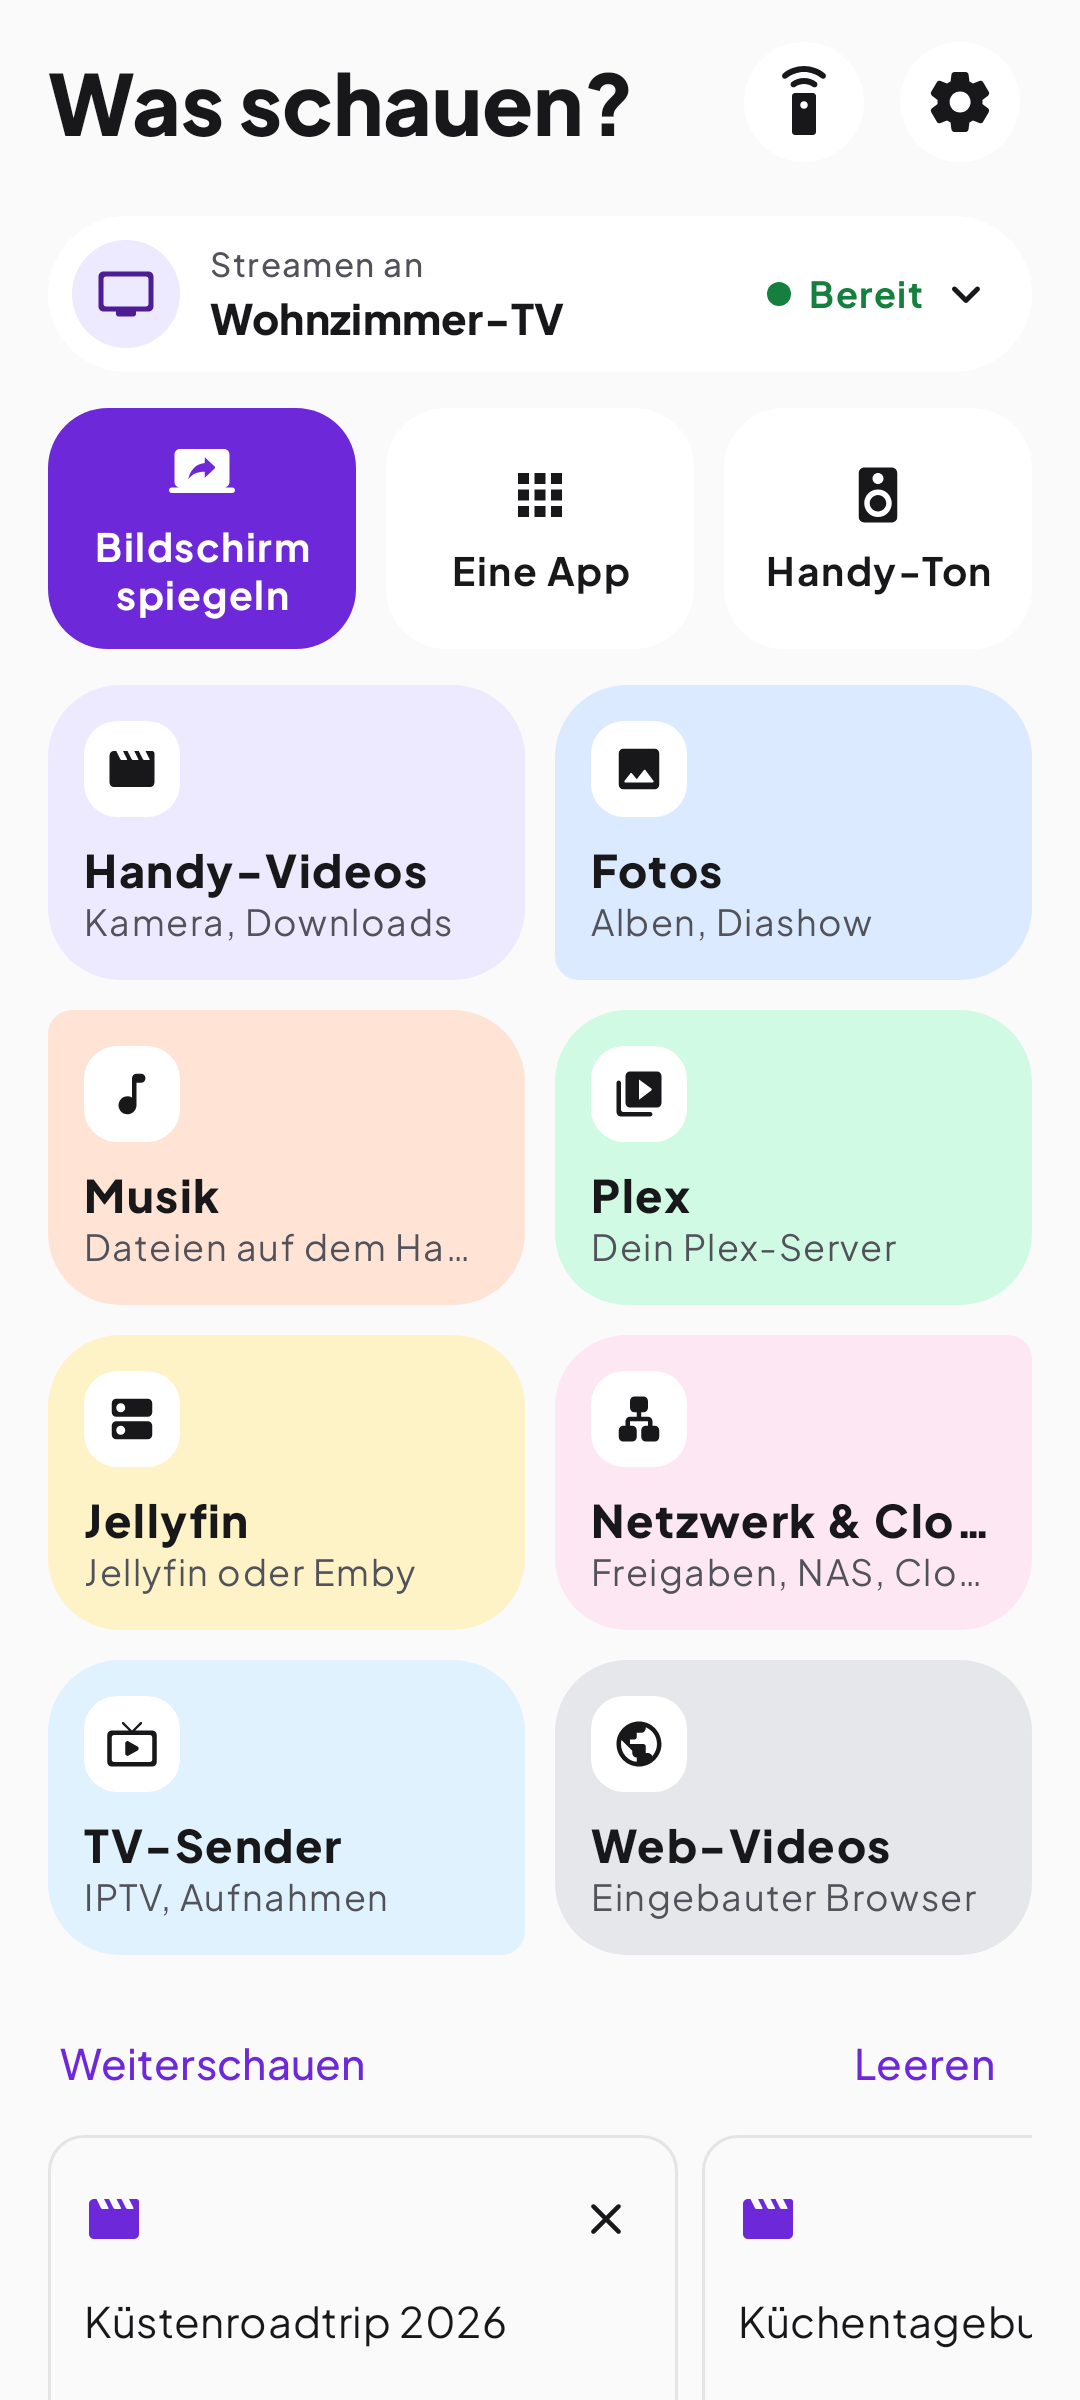
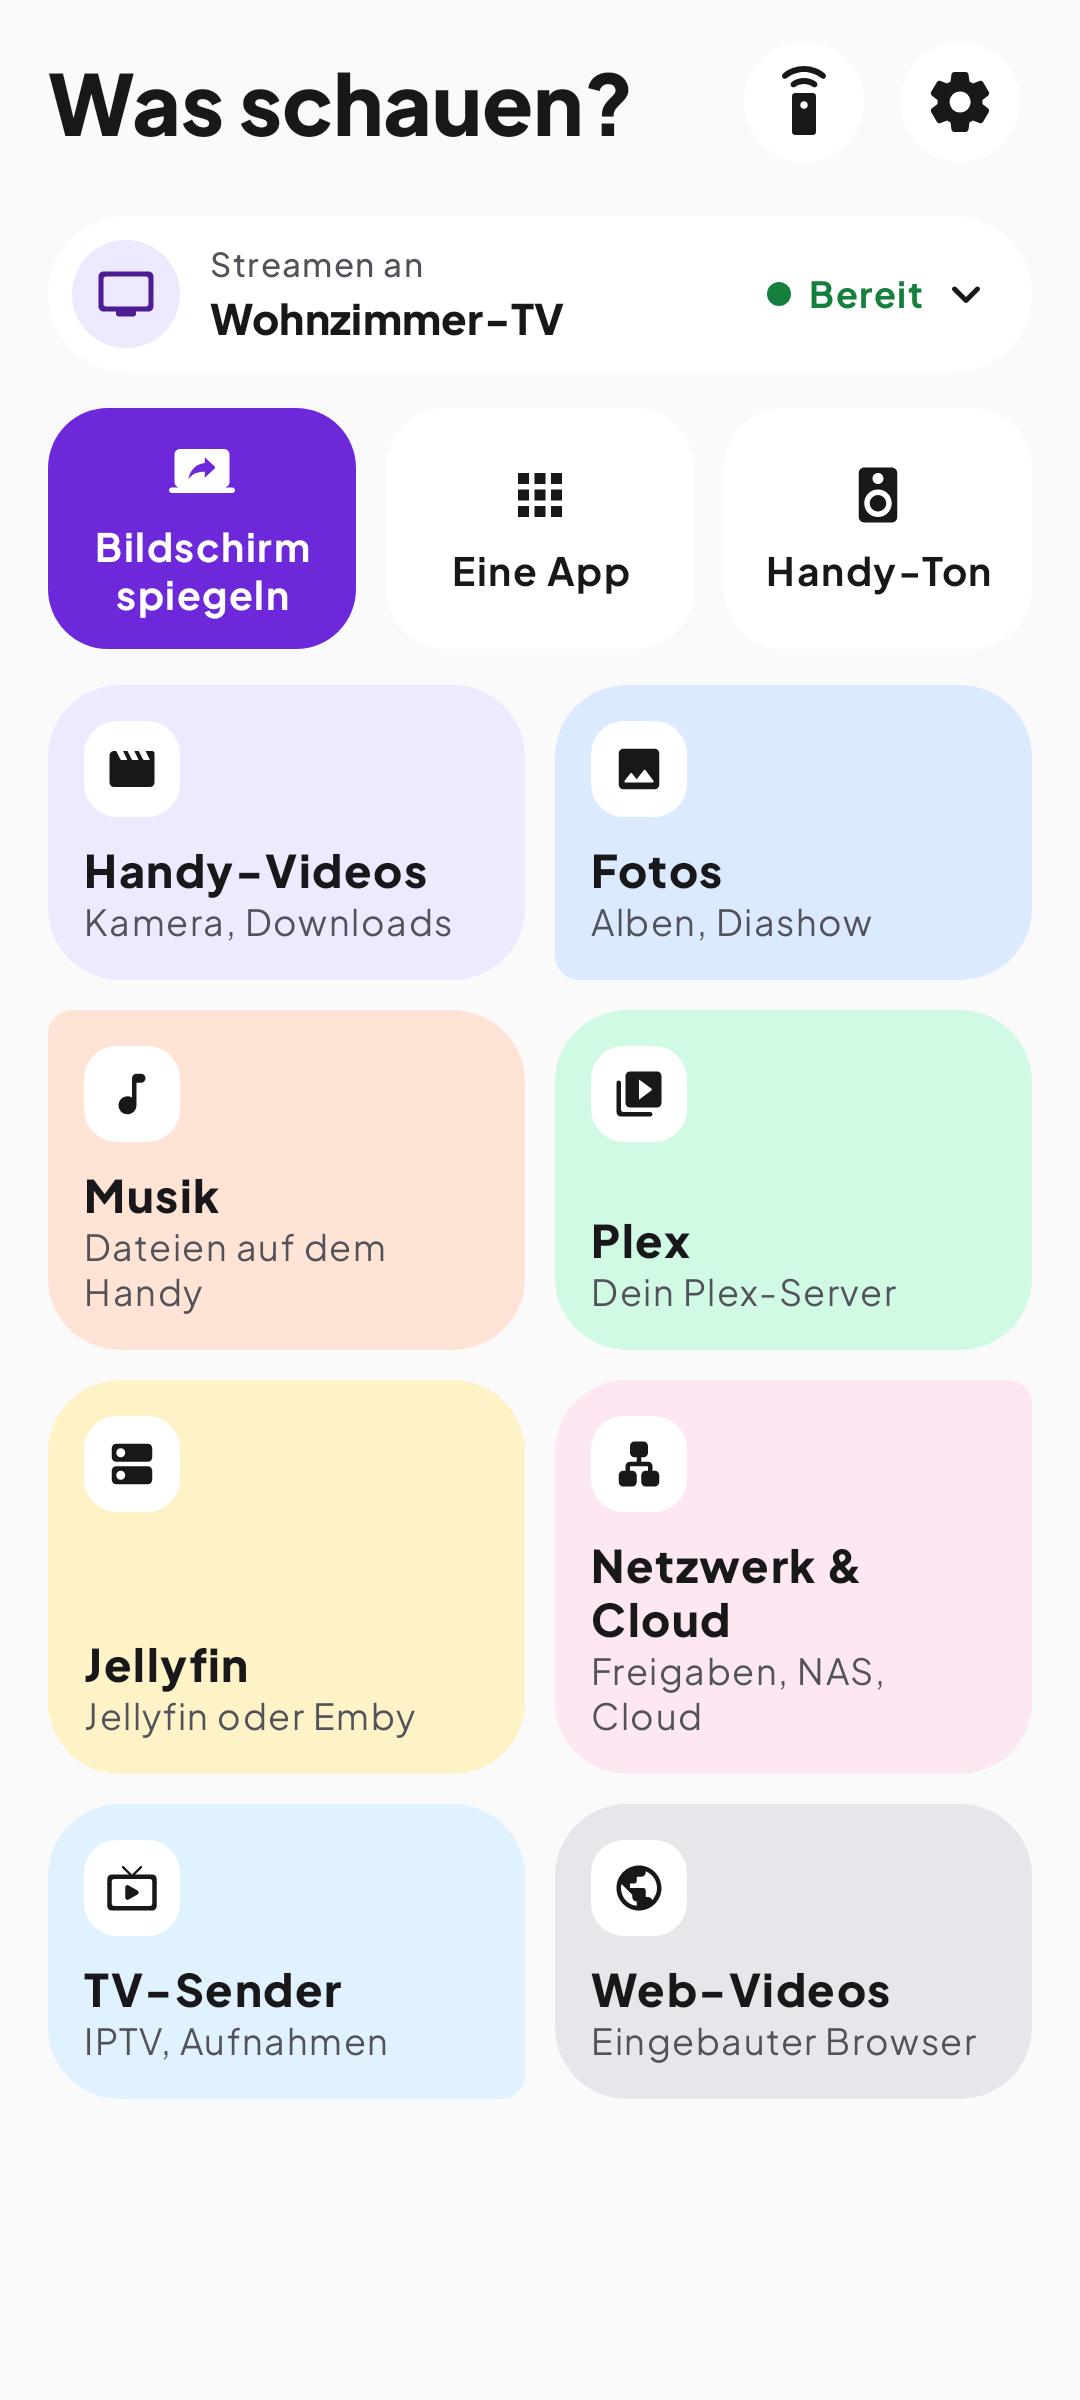
Screenshots after merging main: store home without "Continue watching", refreshed pictures
The store home shot leaves "Continue watching" empty (its pictures stay grey on
the JVM, the demo videos aren't on the phone); the layout checks keep it filled.

diff --git a/app/src/test/java/io/github/patschgoo/castapp/screenshots/HomeScreenshots.kt b/app/src/test/java/io/github/patschgoo/castapp/screenshots/HomeScreenshots.kt
@@ -77,13 +77,15 @@ class HomeScreenshots(private val variant: Variant) {
             remote: Boolean = false,
             audioMode: Boolean = false,
             showRecent: Boolean = true,
+            /** "Continue watching" filled (its pictures stay grey here: the videos aren't on the phone). */
+            history: Boolean = true,
             interact: ComposeTestRule.() -> Unit = {},
         ) = shoot(
             variant, file,
             setup = { activity ->
                 // Process-wide state other screenshots may have left behind.
                 setFlow(TvReceiverService::class.java, "_running", null, false)
-                data.fillHistory(activity)
+                if (history) data.fillHistory(activity) else FakeData.clearHistory(activity)
                 if (remote) connectRemote(activity, data)
             },
             interact = interact,

diff --git a/app/src/test/java/io/github/patschgoo/castapp/screenshots/StoreScreenshots.kt b/app/src/test/java/io/github/patschgoo/castapp/screenshots/StoreScreenshots.kt
@@ -56,7 +56,7 @@ class StoreScreenshots(private val lang: String) {
     }
 
     @Test fun home() = target(1, "home", readme = "home") {
-        compose.shootHome(phone(dark = false), it, data, active = null, showRecent = false)
+        compose.shootHome(phone(dark = false), it, data, active = null, showRecent = false, history = false)
     }
 
     @Test fun player() = target(2, "player", readme = "quality_subtitles") {
